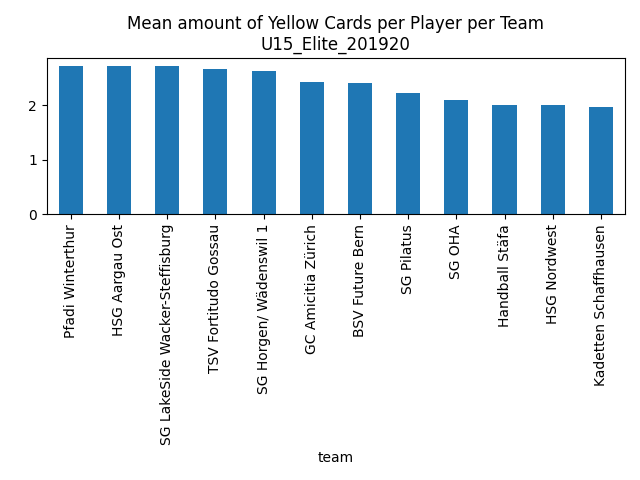
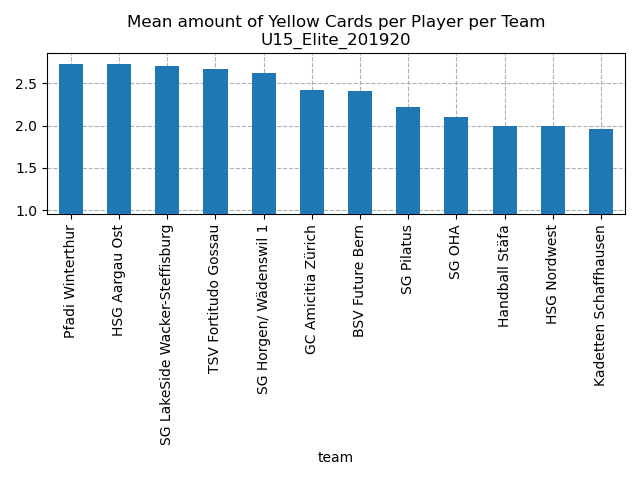
Plotter improvement (dynamic axes range/ticks/minor ticks)

diff --git a/plotter.py b/plotter.py
@@ -2,6 +2,15 @@ import matplotlib.pyplot as plt
 import pandas as pd
 from pandas.core.groupby.groupby import DataError
 import os
+import numpy as np
+
+def find_min(inframe):
+    minimum = inframe.min()
+    return minimum
+
+def find_max(inframe):
+    maximum = inframe.max()
+    return maximum
 
 def plot():
     indir = os.listdir('scraped_data')
@@ -12,8 +21,7 @@ def plot():
         s = '_'
         group = s.join(group)
         print('\n\n\n')
-        print('reading in... ' + infile
-              )
+        print('reading in... ' + infile)
 
         df = pd.read_csv('scraped_data/' + infile + '.csv')
         # df = df.drop(['yellowCards','2mins','redCards'], axis=1 )
@@ -29,26 +37,38 @@ def plot():
             print(yellows.head(20))
             print(reds.head(20))
 
-            goalsPerGame.plot(x='teams', y='goalsPerGame', kind='bar')
+            goalsPerGame.plot(x='teams', y='goalsPerGame', kind='bar', zorder=100)
             plt.title('Mean amount of Goals per Player per Team per Game\n{}'.format(group))
+            plt.yticks(np.arange(find_max(goalsPerGame),step=0.25))
+            plt.ylim(bottom=find_min(goalsPerGame)-0.25)
+            plt.grid(b=True, zorder=0, linestyle='--')
             plt.tight_layout()
             plt.savefig('output_png/{}_meanGoalsPerPlayerPerTeamPerGame.png'.format(group))
             plt.close('all')
 
-            suspensions.plot(x='teams', y='2mins', kind='bar')
+            suspensions.plot(x='teams', y='2mins', kind='bar', zorder=100)
             plt.title('Mean amount of Suspensions per Player per Team\n{}'.format(group))
+            plt.yticks(np.arange(find_max(suspensions), step=0.5))
+            plt.ylim(bottom=find_min(suspensions) - 1)
+            plt.grid(b=True, zorder=0, linestyle='--')
             plt.tight_layout()
             plt.savefig('output_png/{}_meanSuspensionsPerPlayerPerTeam.png'.format(group))
             plt.close('all')
 
-            yellows.plot(x='teams', y='yellowCards', kind='bar')
+            yellows.plot(x='teams', y='yellowCards', kind='bar', zorder=100)
             plt.title('Mean amount of Yellow Cards per Player per Team\n{}'.format(group))
+            plt.yticks(np.arange(find_max(yellows), step=0.5))
+            plt.ylim(bottom=find_min(yellows) - 1)
+            plt.grid(b=True, zorder=0, linestyle='--')
             plt.tight_layout()
             plt.savefig('output_png/{}_meanYellowCardsPerPlayerPerTeam.png'.format(group))
             plt.close('all')
 
-            reds.plot(x='teams', y='redCards', kind='bar')
+            reds.plot(x='teams', y='redCards', kind='bar', zorder=100)
             plt.title('Sum of Red Cards per Team\n{}'.format(group))
+            plt.yticks(np.arange(find_max(reds), step=0.5))
+            plt.ylim(bottom=find_min(reds))
+            plt.grid(b=True, zorder=0, linestyle='--')
             plt.tight_layout()
             plt.savefig('output_png/{}_redCardsPerTeam.png'.format(group))
             plt.close('all')
